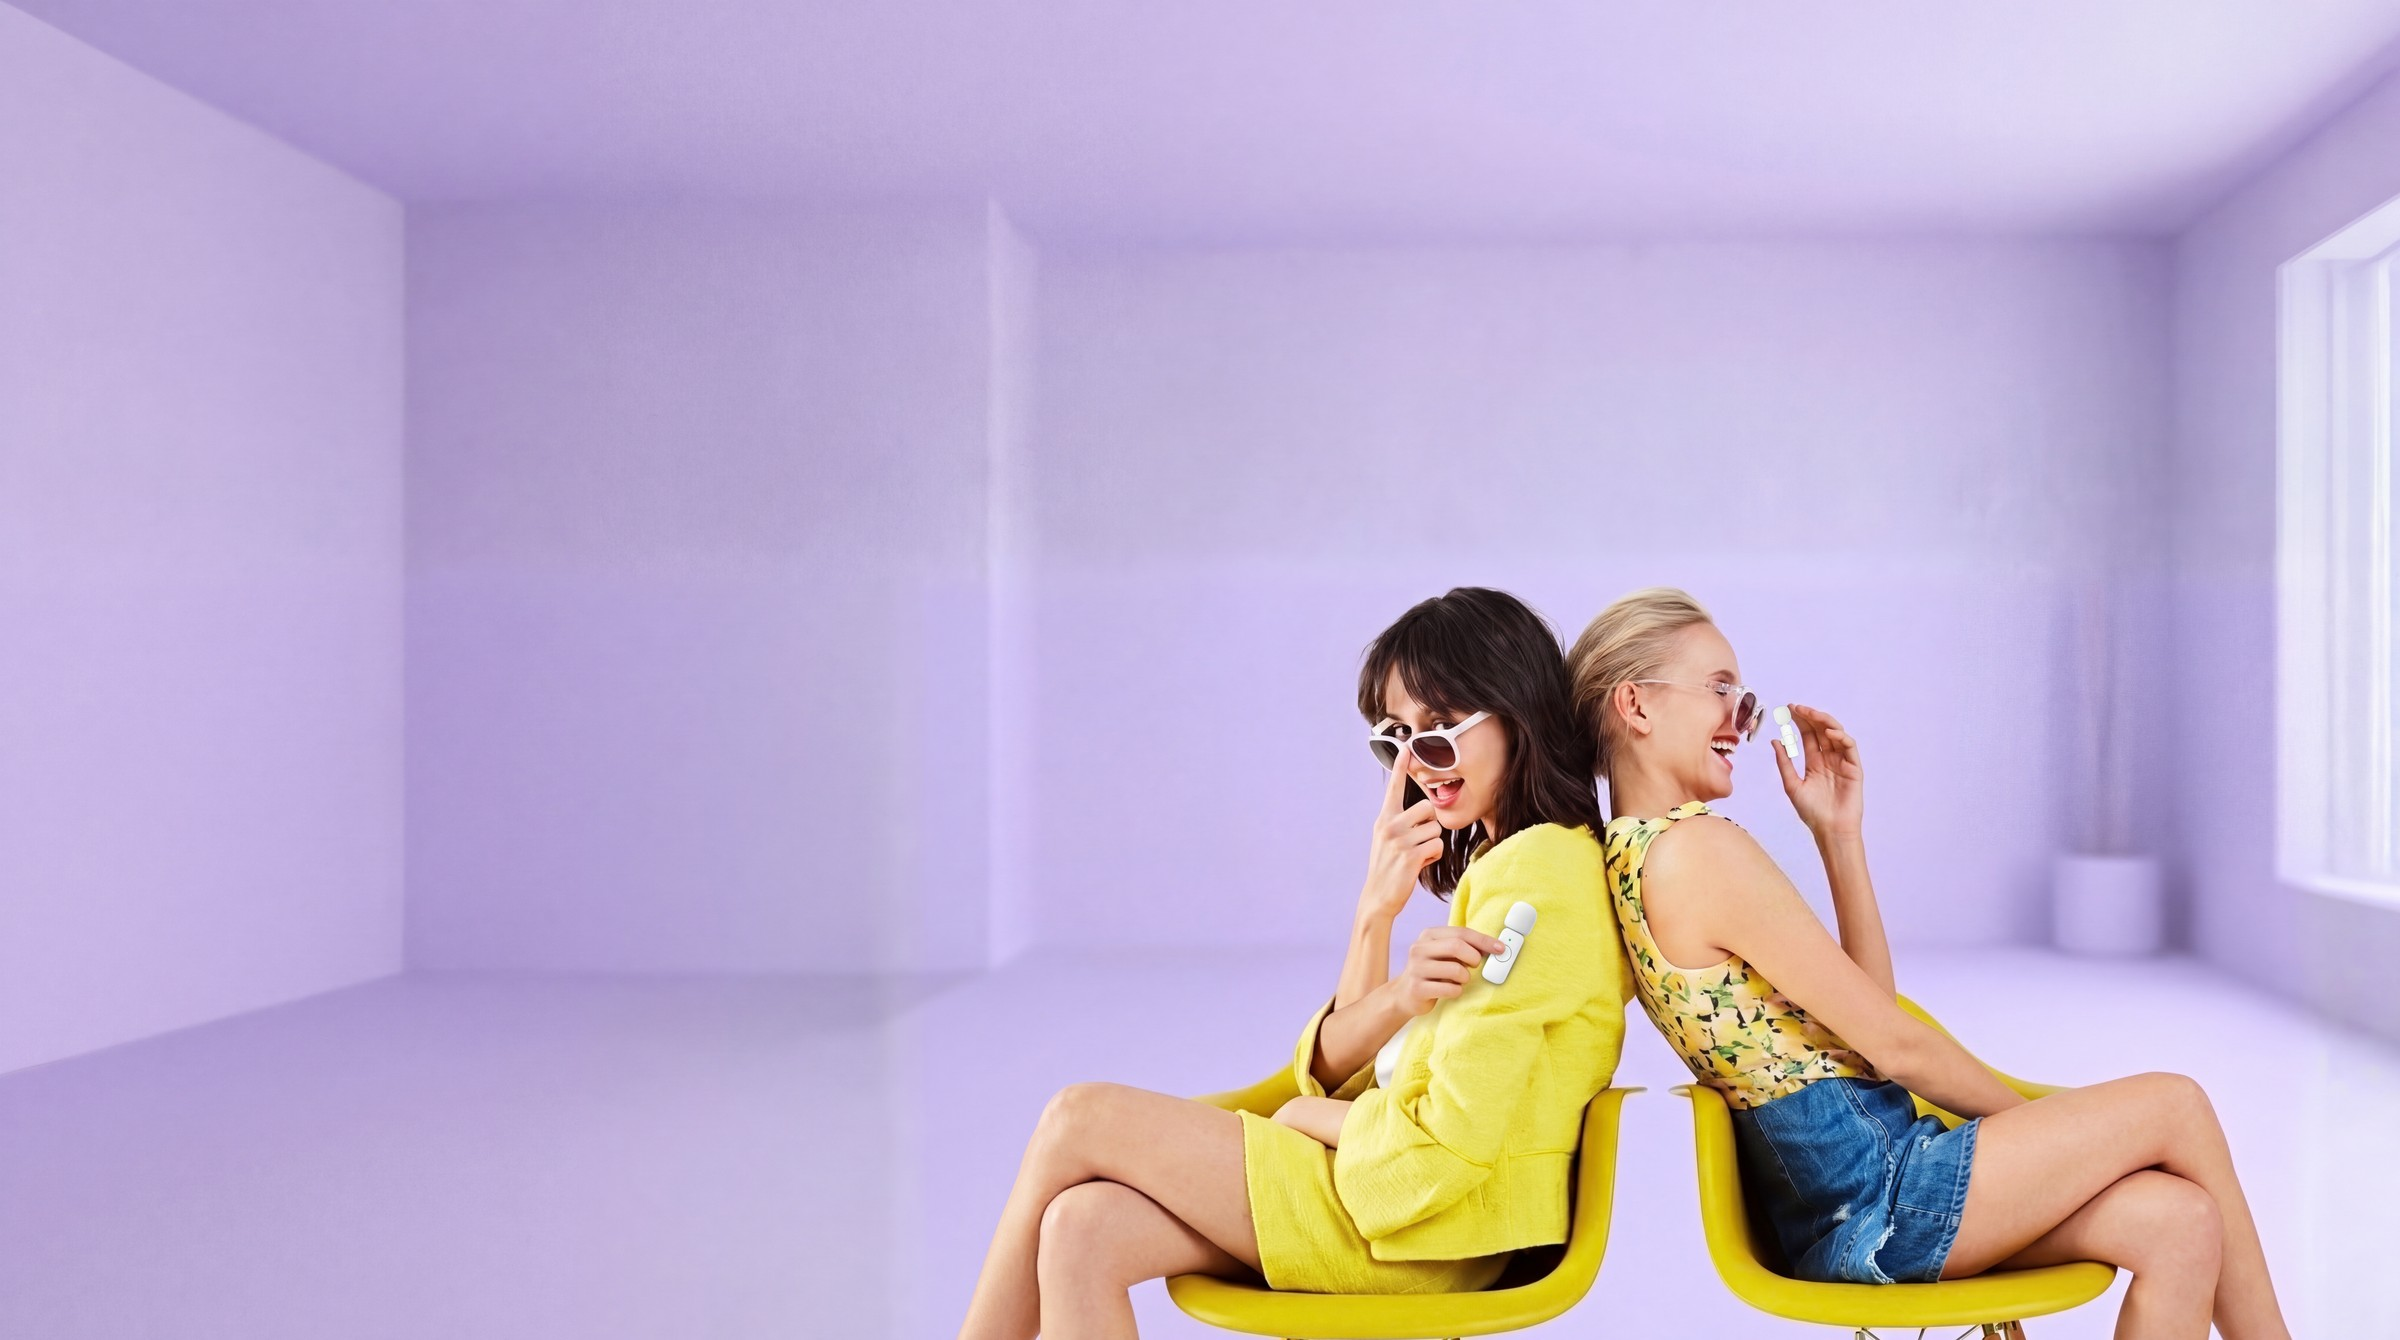
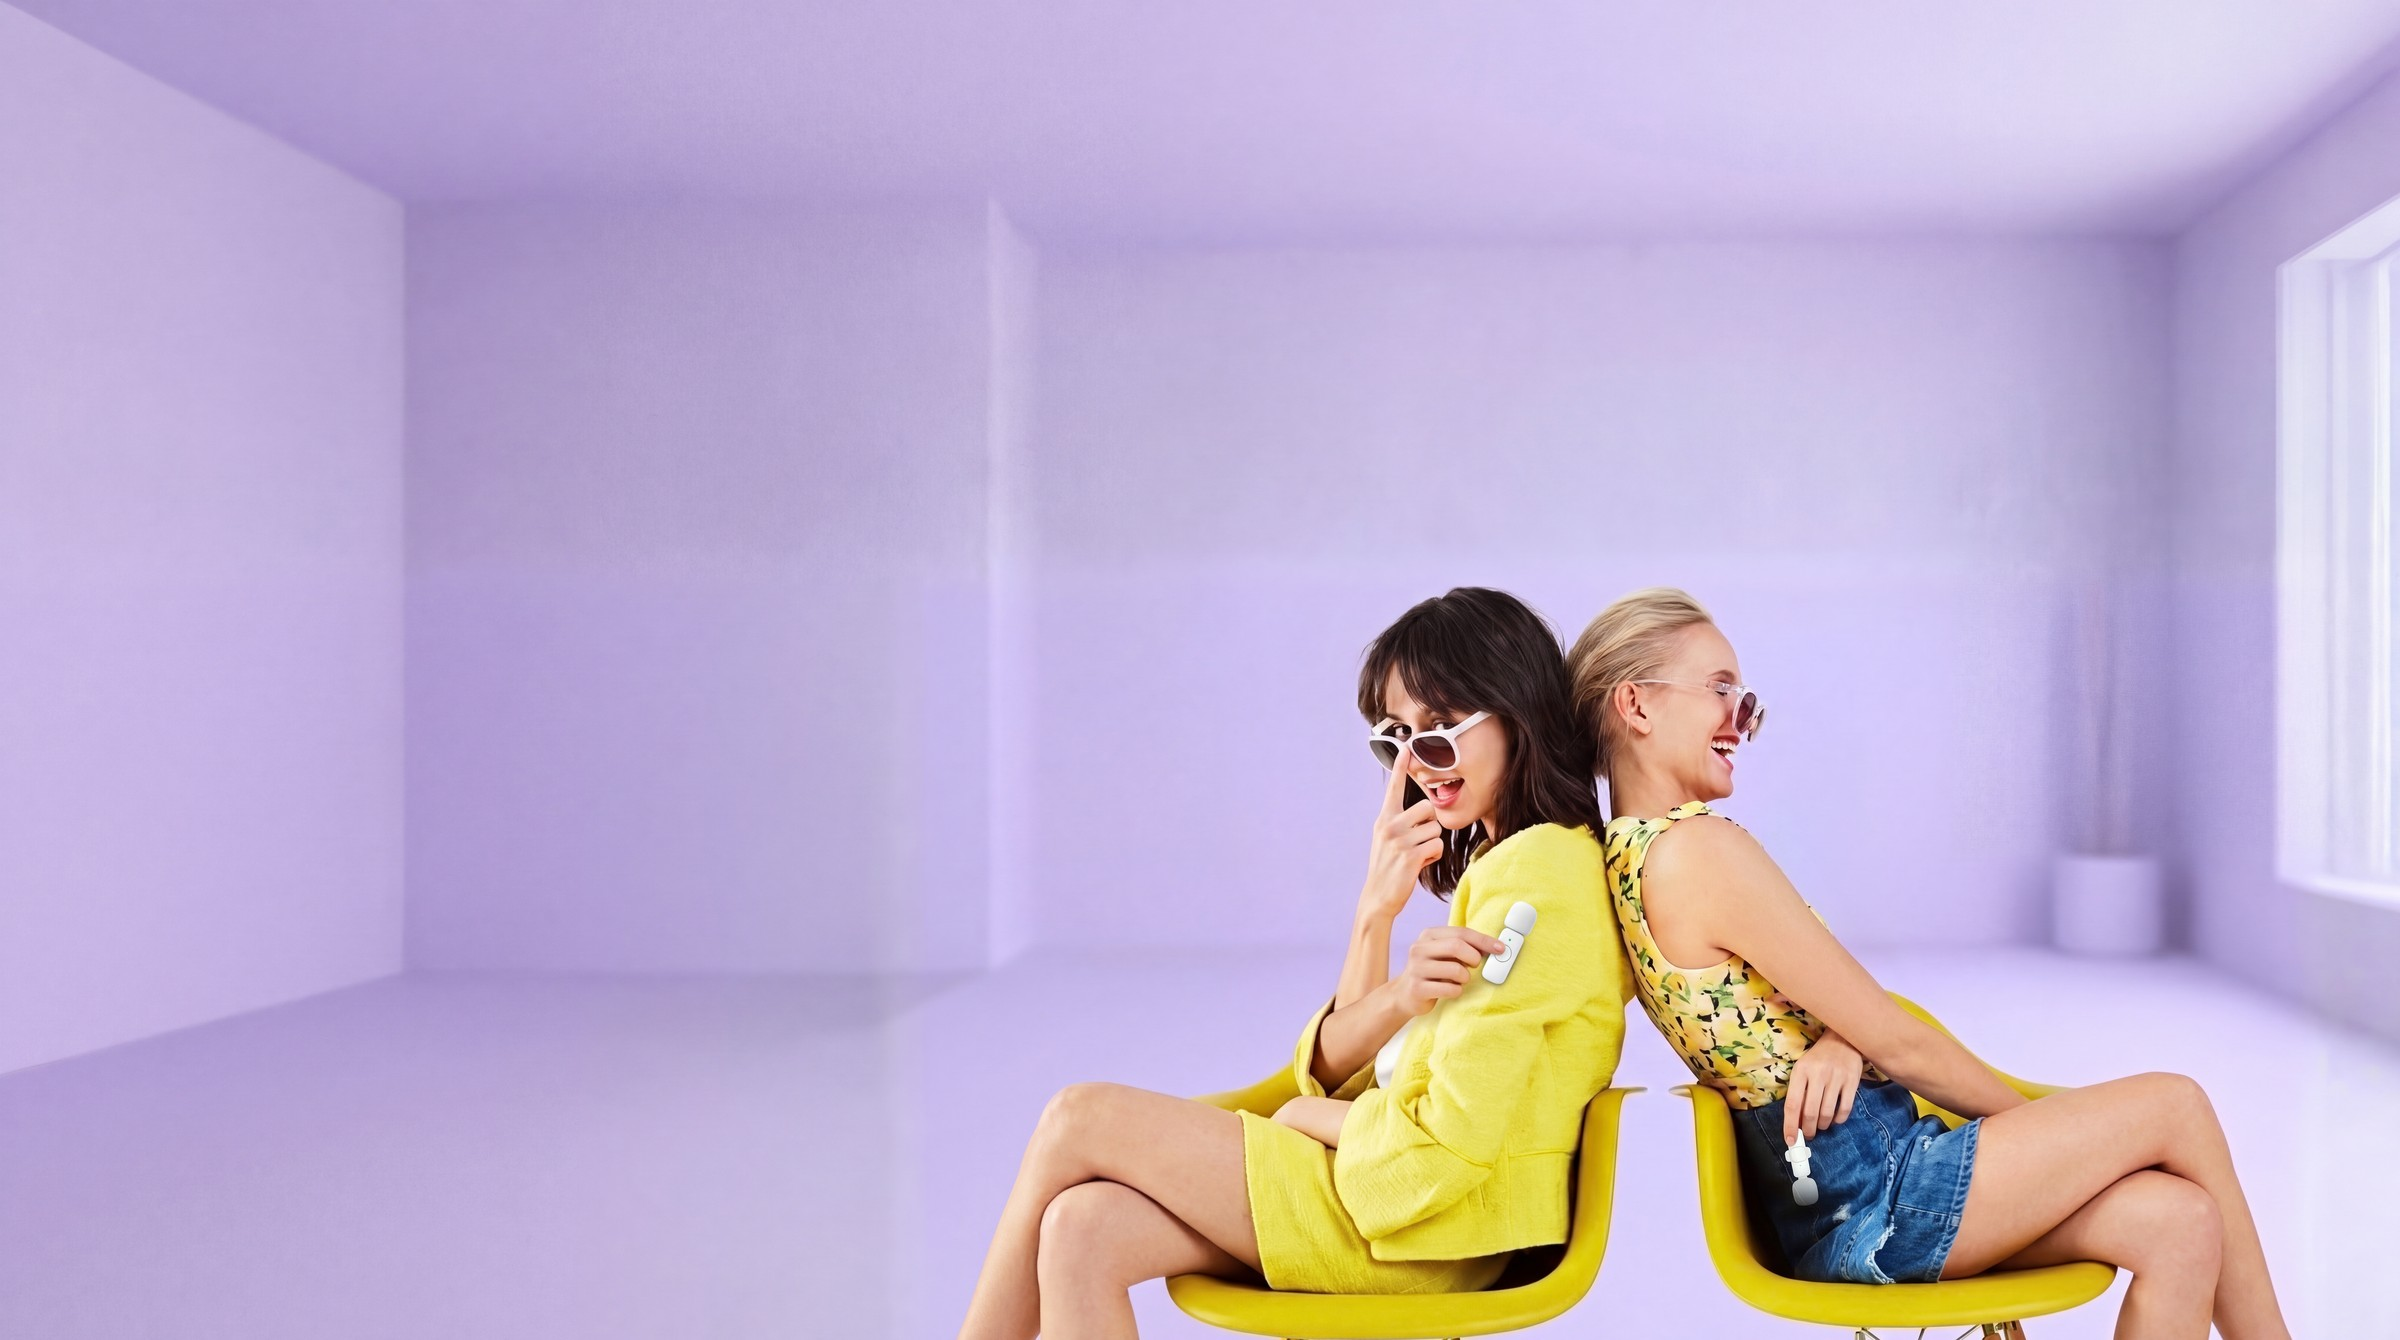
Lemon chairs hero: blonde re-posed, arm draped, mic dangling against denim
Claude-Session: https://claude.ai/code/session_01HacCXD9LpgM5ntEmeAeECx

Changed region(s): [[0.7188, 0.7343, 0.8438, 0.8873], [0.7188, 0.5201, 0.8125, 0.7649]]

diff --git a/DUET-MIC-VIDEOS/ROUND-3-AI-IMAGERY/HERO-LEMON-CHAIRS/DUET-REPOSE-BLONDE.py b/DUET-MIC-VIDEOS/ROUND-3-AI-IMAGERY/HERO-LEMON-CHAIRS/DUET-REPOSE-BLONDE.py
@@ -1,0 +1,31 @@
+"""Re-pose the blonde: raised arm lowered and draped loosely over her other arm, mic dangling from her fingers in front of her denim shorts. Gemini on a 3:4 patch only."""
+import json,base64,urllib.request,io,time,sys
+from PIL import Image
+M=Image.open('DUET-HERO-LEMON-CHAIRS-CLOUD-MASTER.png').convert('RGB'); s=M.width/2000
+box=tuple(int(v*s) for v in (930,130,1570,983))
+def enc(im):
+    b=io.BytesIO(); im.save(b,'PNG'); return {"inline_data":{"mime_type":"image/png","data":base64.b64encode(b.getvalue()).decode()}}
+patch=M.crop(box); ref=Image.open('../PRODUCT-PHOTOS/REF-MIC-CLOUD-FRONT.png')
+P=("Edit this crop of a real photograph (the blonde woman laughing, back to back with a friend on yellow chairs). Change ONLY her raised arm: "
+"lower that arm and let it drape loosely across her body, resting relaxed over her other arm (which stays exactly where it is). She is laughing so hard that her hand hangs limp, "
+"and the small white wireless microphone dangles loosely from her fingertips in front of her dark denim shorts, so the white mic stands out clearly against the dark denim. "
+"The mic must match the second image exactly: white foam cap on top, one rounded-square button, one tiny green LED, small side tabs; tiny, about the length of her index finger. "
+"Fill the lilac background where her raised arm and hand used to be. Keep her face, laugh, sunglasses, hair, floral top, shorts, the chair, lighting (soft window light from the right) and colour grade identical. "
+"Anatomy must be natural: correct elbow, wrist and five fingers. No text, no logos.")
+for n in range(int(sys.argv[1]) if len(sys.argv)>1 else 3):
+    body={"contents":[{"parts":[enc(patch),enc(ref),{"text":P}]}],"generationConfig":{"responseModalities":["IMAGE"],"imageConfig":{"aspectRatio":"3:4","imageSize":"2K"}}}
+    for a in range(4):
+        try: d=json.load(urllib.request.urlopen(urllib.request.Request("https://generativelanguage.googleapis.com/v1beta/models/gemini-3-pro-image:generateContent",data=json.dumps(body).encode(),headers={"Content-Type":"application/json"}),timeout=300)); break
+        except urllib.error.HTTPError as e:
+            if e.code in (429,500,503): time.sleep(20*(a+1)); continue
+            raise
+    for c in d.get('candidates',[]):
+        for p in c.get('content',{}).get('parts',[]):
+            if 'inlineData' in p: Image.open(io.BytesIO(base64.b64decode(p['inlineData']['data']))).convert('RGB').resize(patch.size,Image.LANCZOS).save(f'REPOSE-{n+1:02d}.png')
+    print('repose',n+1,flush=True)
+json.dump({'box':box},open('repose_box.json','w'))
+c=Image.new('RGB',(4*360,480),'white'); c.paste(patch.resize((360,480)),(0,0))
+for n in range(3):
+    try: c.paste(Image.open(f'REPOSE-{n+1:02d}.png').resize((360,480)),(360*(n+1),0))
+    except Exception: pass
+c.save('/tmp/claude-0/-home-user-ARC-REPOS/00150b4b-793a-515e-884e-50e331ae2575/scratchpad/repose.jpg')
